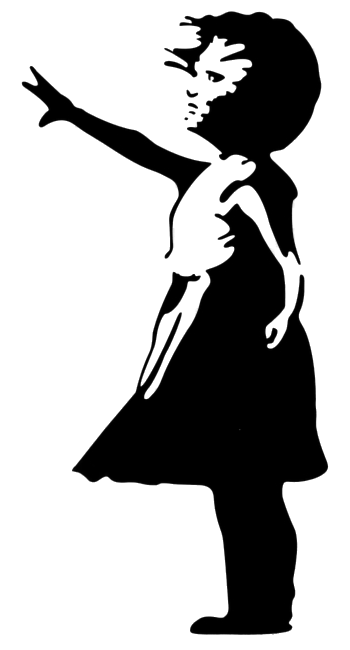
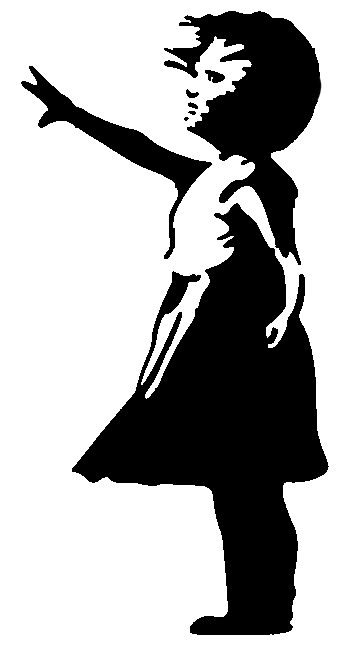
Updated side SSI imgs to be svgs. Updated server

diff --git a/site/SSI/sideGallery.html b/site/SSI/sideGallery.html
@@ -1,6 +1,6 @@
     <div class="left-side">
-        <a href="http://www.banksy.co.uk/"><img src="../../../img/background/SSI/heart.png" alt="Banksy's Girl with Balloon Red Balloon"/></a>
+        <a href="http://www.banksy.co.uk/"><img src="../../../img/background/SSI/heart.svg" alt="Banksy's Girl with Balloon Red Balloon"/></a>
     </div>
     <div class="right-side">
-        <a href="https://www.instagram.com/banksy/?hl=en"><img src="../../../img/background/SSI/girl.png" alt="Banksy's Girl with Balloon Girl"/></a>
+        <a href="https://www.instagram.com/banksy/?hl=en"><img src="../../../img/background/SSI/girl.svg" alt="Banksy's Girl with Balloon Girl"/></a>
     </div>

diff --git a/site/SSI/side.html b/site/SSI/side.html
@@ -1,6 +1,6 @@
     <div class="left-side">
-        <a href="http://www.banksy.co.uk/"><img src="../img/background/SSI/heart.png" alt="Banksy's Girl with Balloon Red Balloon"/></a>
+        <a href="http://www.banksy.co.uk/"><img src="../img/background/SSI/heart.svg" alt="Banksy's Girl with Balloon Red Balloon"/></a>
     </div>
     <div class="right-side">
-        <a href="https://www.instagram.com/banksy/?hl=en"><img src="../img/background/SSI/girl.png" alt="Banksy's Girl with Balloon Girl"/></a>
+        <a href="https://www.instagram.com/banksy/?hl=en"><img src="../img/background/SSI/girl.svg" alt="Banksy's Girl with Balloon Girl"/></a>
     </div>

diff --git a/site/SSI/sideIndex.html b/site/SSI/sideIndex.html
@@ -1,6 +1,6 @@
     <div class="left-side">
-        <a href="http://www.banksy.co.uk/"><img src="img/background/SSI/heart.png" alt="Banksy's Girl with Balloon Red Balloon"/></a>
+        <a href="http://www.banksy.co.uk/"><img src="img/background/SSI/heart.svg" alt="Banksy's Girl with Balloon Red Balloon"/></a>
     </div>
     <div class="right-side">
-        <a href="https://www.instagram.com/banksy/?hl=en"><img src="img/background/SSI/girl.png" alt="Banksy's Girl with Balloon Girl"/></a>
+        <a href="https://www.instagram.com/banksy/?hl=en"><img src="img/background/SSI/girl.svg" alt="Banksy's Girl with Balloon Girl"/></a>
     </div>
